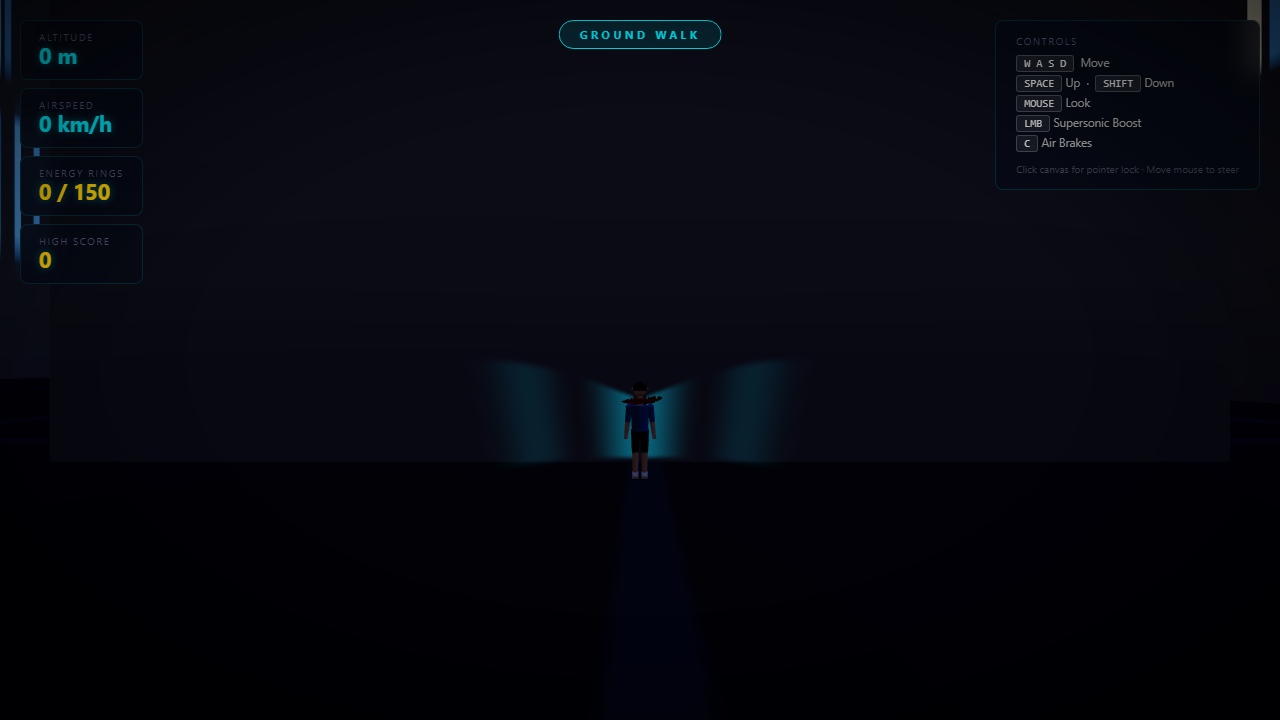
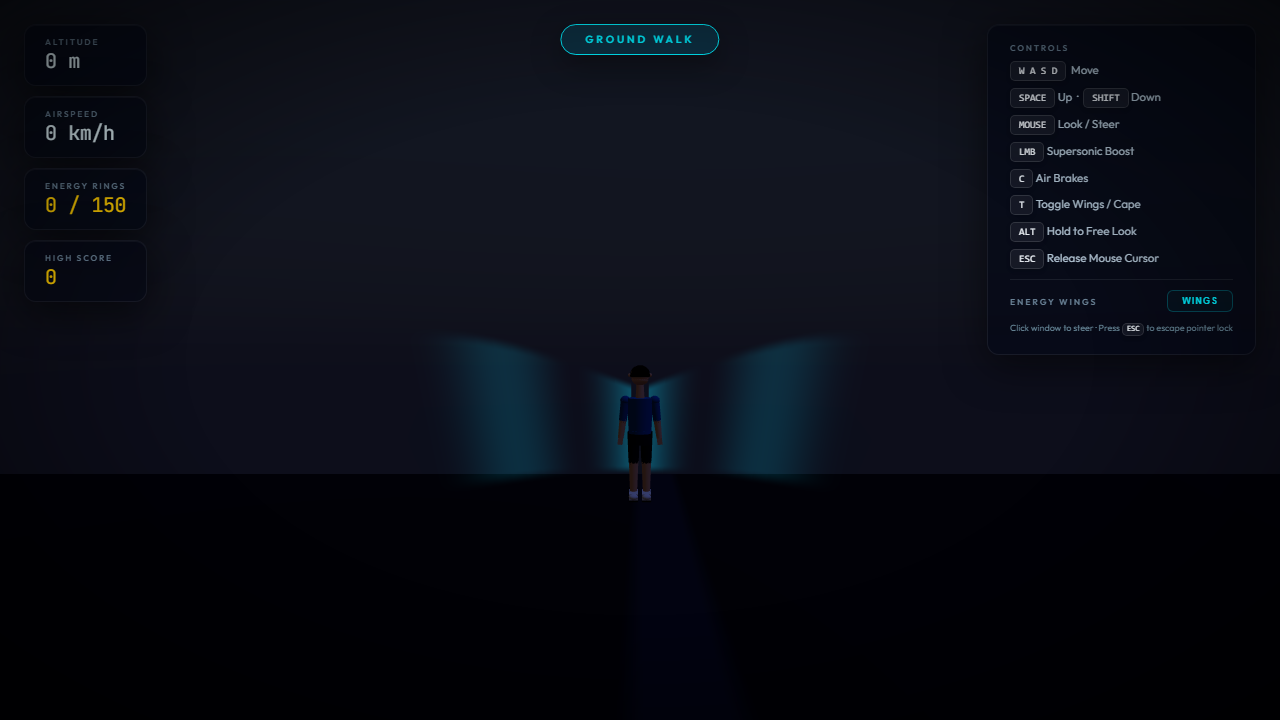
Add dynamic ring collection combo streak multiplier and responsive gold telemetry glow pulses

diff --git a/js/ui/UIManager.js b/js/ui/UIManager.js
@@ -35,9 +35,13 @@ export class UIManager {
         this._boostVig   = document.getElementById('boost-vignette');
         this._impactFlash = document.getElementById('impact-flash');
         this._boomFlash   = document.getElementById('boom-flash');
+        this._scorePanel = document.getElementById('ui-score-panel');
+        this._combo      = document.getElementById('ui-combo');
 
         this._flashTO    = null;
         this._boomFlashTO = null;
+        this._pulseTO    = null;
+        this._lastScore  = 0;
     }
 
     // ─────────────────────────────────────────────────────────────────
@@ -78,6 +82,32 @@ export class UIManager {
         this._speed.textContent     = Math.floor(state.displaySpeed)  + ' km/h';
         this._score.textContent     = `${state.score} / ${state.totalRings}`;
         this._highscore.textContent = state.highScore;
+
+        // ── Score pulse animation trigger ───────────────────────────
+        if (this._lastScore > 0 && state.score > this._lastScore) {
+            if (this._scorePanel) {
+                this._scorePanel.classList.remove('ring-pulse');
+                void this._scorePanel.offsetWidth; // Trigger DOM reflow
+                this._scorePanel.classList.add('ring-pulse');
+                clearTimeout(this._pulseTO);
+                this._pulseTO = setTimeout(() => {
+                    this._scorePanel.classList.remove('ring-pulse');
+                }, 450);
+            }
+        }
+        this._lastScore = state.score;
+
+        // ── Combo overlay indicator ──────────────────────────────────
+        if (this._combo) {
+            if (state.comboCount > 1) {
+                this._combo.textContent = `STREAK x${state.comboCount}`;
+                this._combo.style.opacity = '1';
+                this._combo.style.transform = 'translateY(-50%) scale(1.1)';
+            } else {
+                this._combo.style.opacity = '0';
+                this._combo.style.transform = 'translateY(-50%) scale(0.9)';
+            }
+        }
 
         // ── Mode badge ─────────────────────────────────────────────
         const modes = {

diff --git a/js/systems/CameraJuice.js b/js/systems/CameraJuice.js
@@ -69,6 +69,10 @@ export class CameraJuice {
         const S   = s.STATES;
 
         // ── Collectibles: bob + collection ────────────────────────────
+        if (s.comboCount > 0 && (time - s.lastCollectTime) > 4.5) {
+            s.comboCount = 0;
+        }
+
         for (const ring of this.collectibles.rings) {
             if (!ring.userData.active) continue;
             ring.rotation.y += 1.6 * dt;
@@ -81,6 +85,15 @@ export class CameraJuice {
                     s.highScore = s.score;
                     localStorage.setItem('luminary_highscore', s.highScore.toString());
                 }
+
+                // Combo calculation
+                if (s.lastCollectTime > 0 && (time - s.lastCollectTime) < 4.5) {
+                    s.comboCount++;
+                } else {
+                    s.comboCount = 1;
+                }
+                s.lastCollectTime = time;
+
                 this.audio.playCollectSound();
             }
         }

diff --git a/index.html b/index.html
@@ -59,9 +59,10 @@
             <div class="hud-label">Airspeed</div>
             <div class="hud-value" id="ui-speed">0 km/h</div>
         </div>
-        <div class="glass-panel">
+        <div class="glass-panel" id="ui-score-panel" style="position:relative">
             <div class="hud-label">Energy Rings</div>
             <div class="hud-value" id="ui-score" style="color:var(--gold)">0 / 150</div>
+            <div id="ui-combo" style="position:absolute; right:16px; top:50%; transform:translateY(-50%); font-size:.56rem; font-weight:700; letter-spacing:.15em; color:var(--primary); text-shadow:0 0 10px rgba(0, 240, 255, 0.4); opacity:0; transition:opacity 0.2s ease, transform 0.2s cubic-bezier(0.175, 0.885, 0.32, 1.275); pointer-events:none; text-transform:uppercase">x0</div>
         </div>
         <div class="glass-panel">
             <div class="hud-label">High Score</div>

diff --git a/css/style.css b/css/style.css
@@ -480,3 +480,26 @@ canvas {
     fill: currentColor;
 }
 
+/* Telemetry & Score Pulse animation */
+@keyframes ring-pulse-anim {
+    0% {
+        transform: scale(1);
+        border-color: rgba(255, 204, 0, 0.5);
+        box-shadow: 0 0 15px rgba(255, 204, 0, 0.2), inset 0 1px 0 rgba(255, 255, 255, 0.05);
+    }
+    40% {
+        transform: scale(1.04);
+        border-color: rgba(255, 204, 0, 0.85);
+        box-shadow: 0 0 30px rgba(255, 204, 0, 0.4), inset 0 1px 0 rgba(255, 255, 255, 0.1);
+    }
+    100% {
+        transform: scale(1);
+        border-color: rgba(255, 255, 255, 0.07);
+        box-shadow: 0 10px 40px rgba(0, 0, 0, 0.55), inset 0 1px 0 rgba(255, 255, 255, 0.05);
+    }
+}
+
+.ring-pulse {
+    animation: ring-pulse-anim 0.45s cubic-bezier(0.16, 1, 0.3, 1) forwards;
+}
+

diff --git a/js/entities/PlayerState.js b/js/entities/PlayerState.js
@@ -103,6 +103,8 @@ export class PlayerState {
         this.score           = 0;
         this.highScore       = parseInt(localStorage.getItem('luminary_highscore') || '0');
         this.totalRings      = 150;
+        this.comboCount      = 0;
+        this.lastCollectTime = 0;
 
         // ── Double-tap tracking ──────────────────────────────────────
         this.lastTap         = { A: 0, D: 0 };
